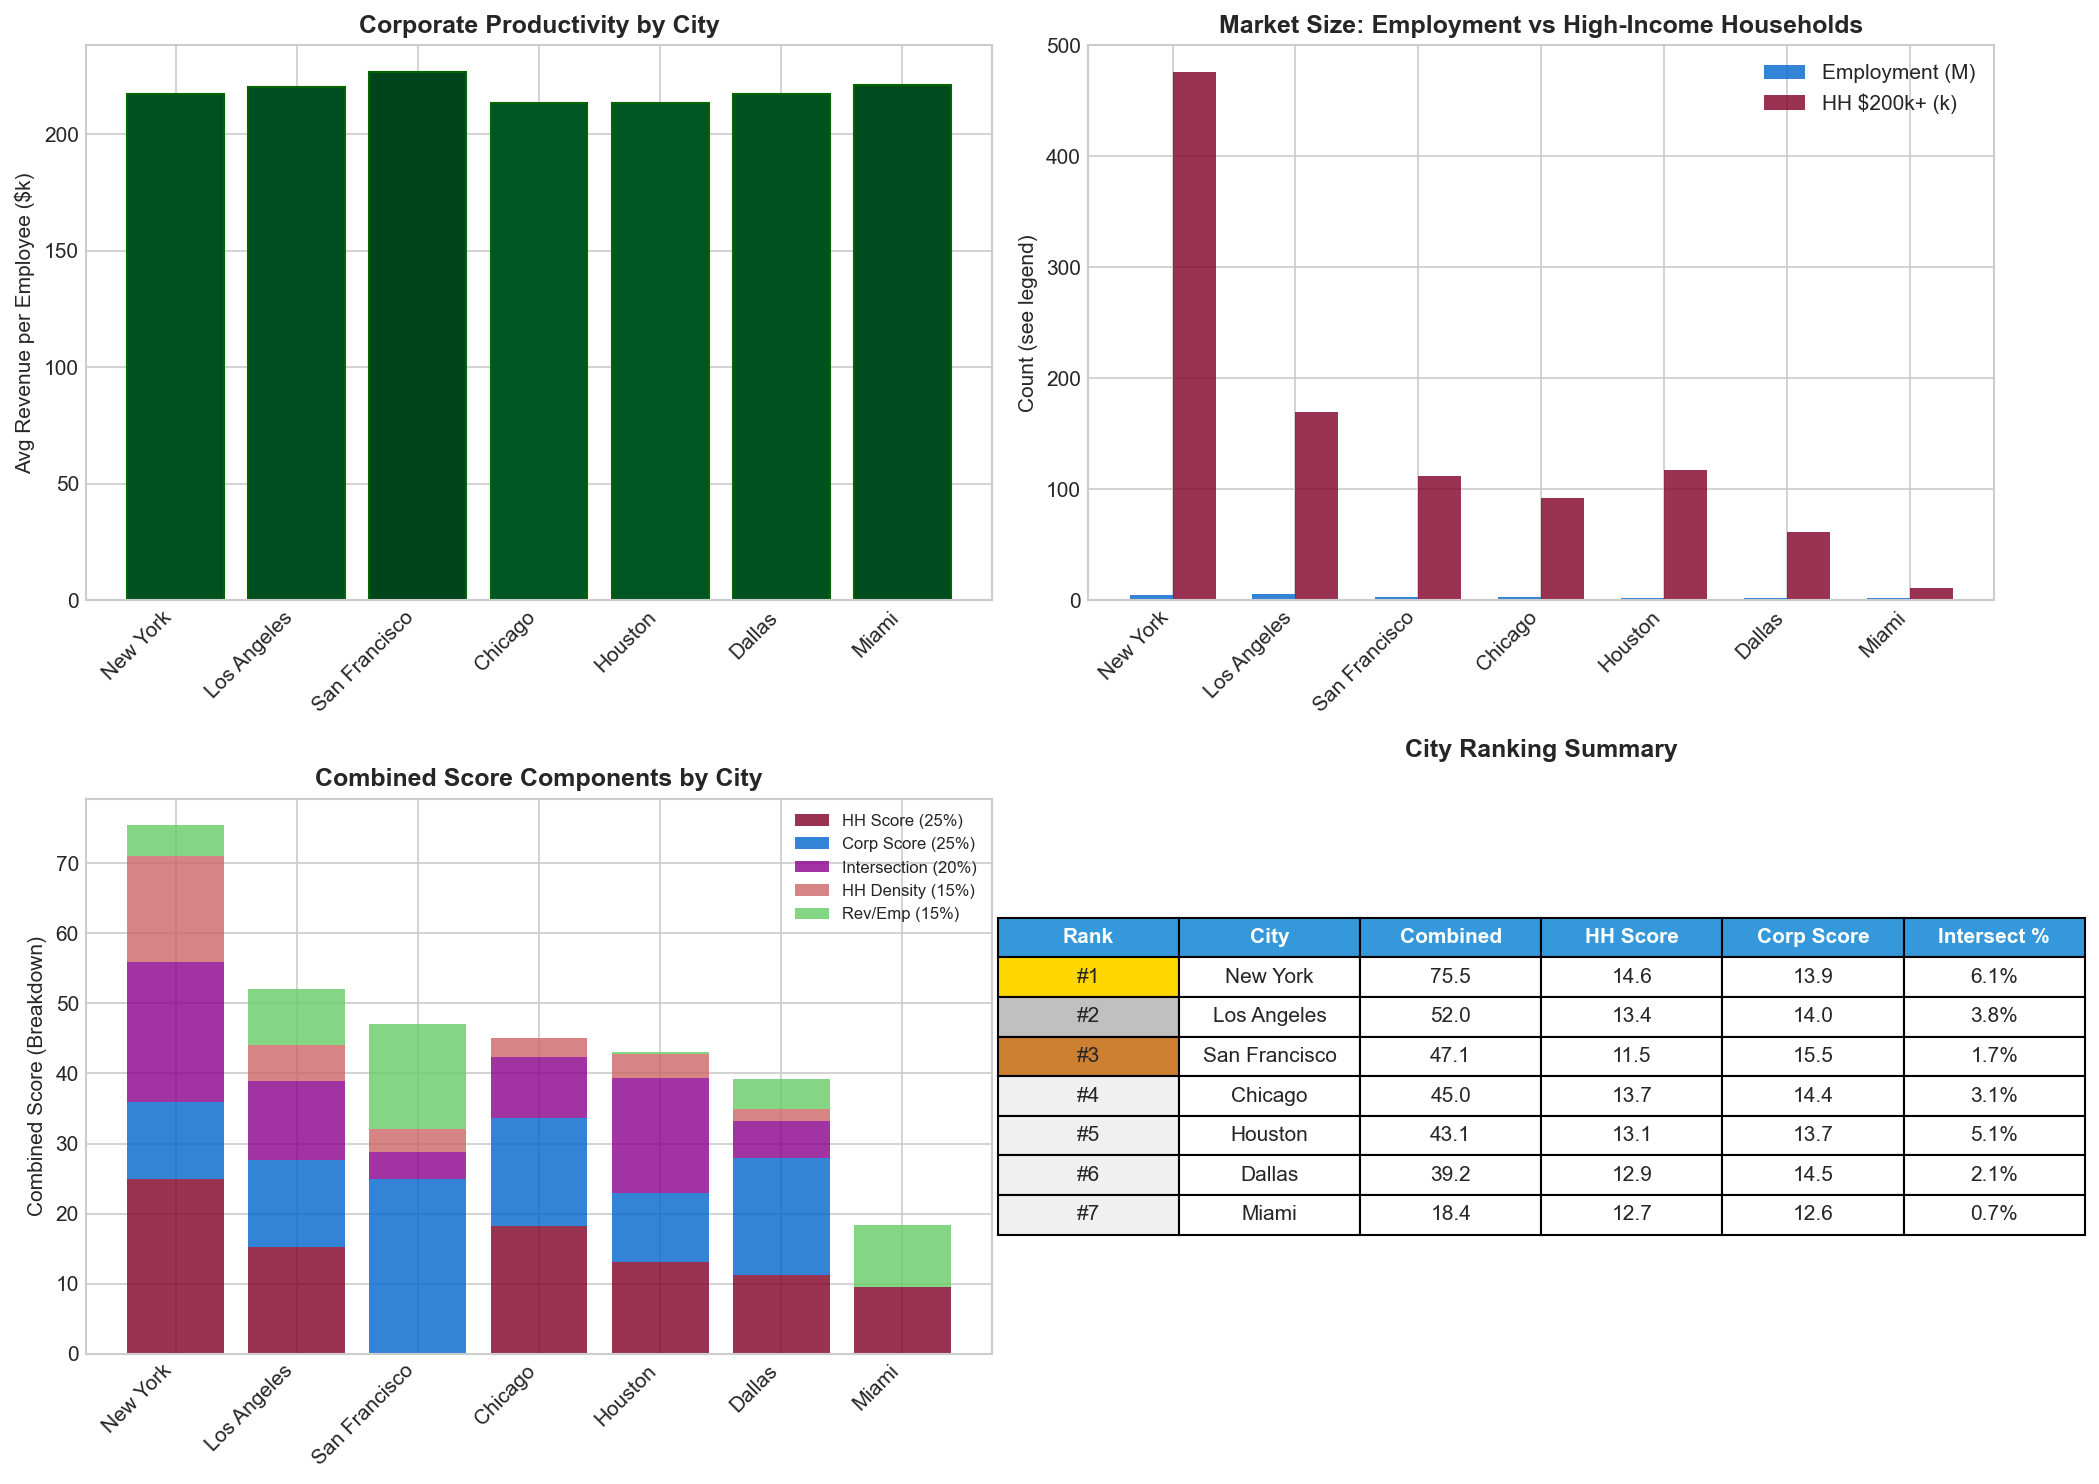
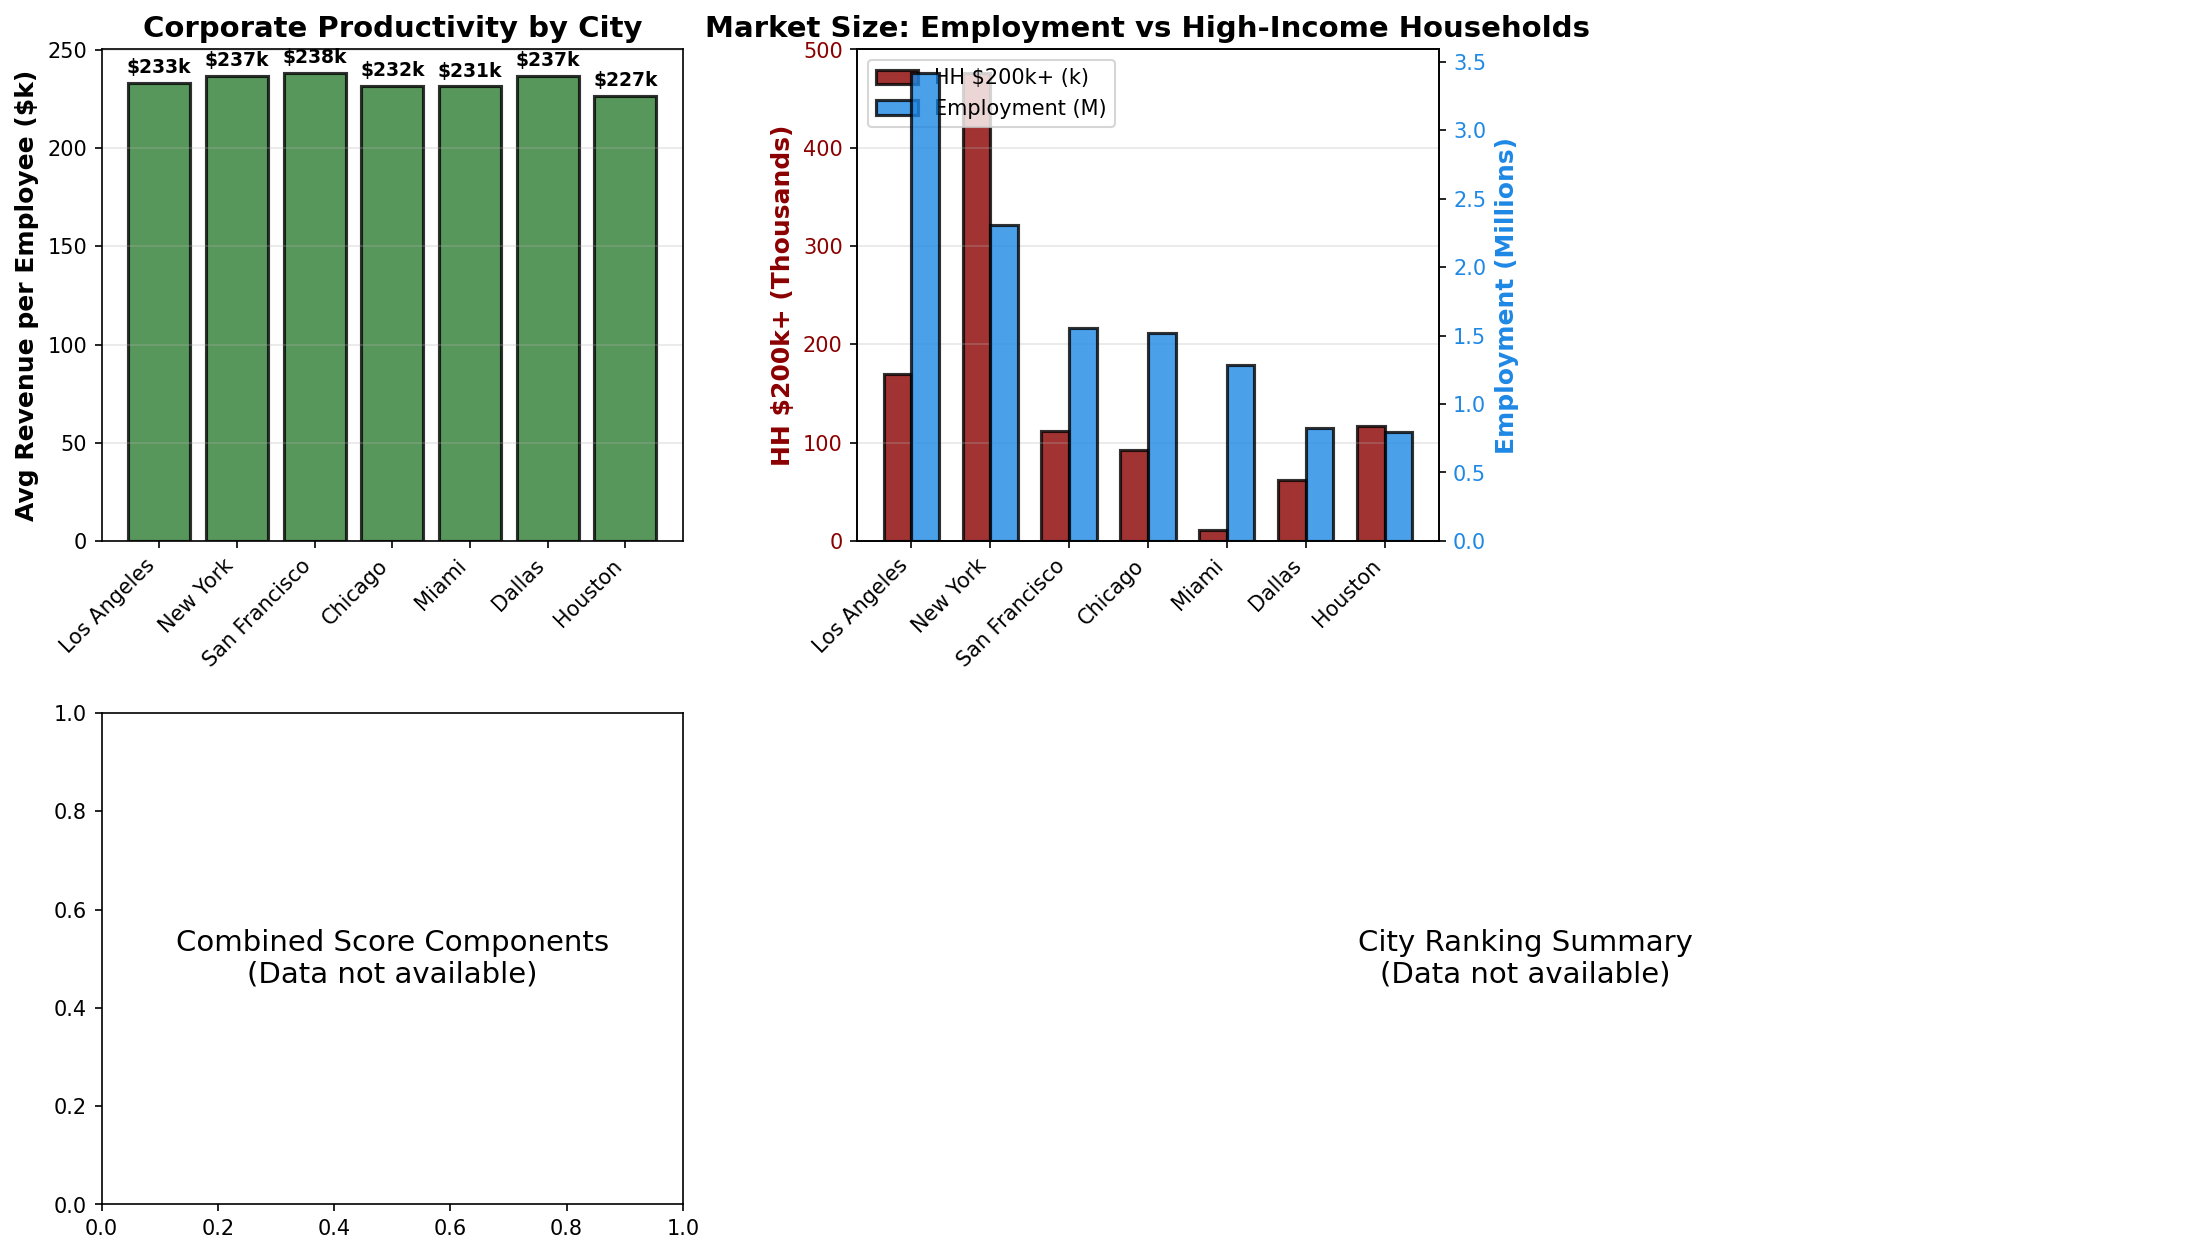
Fix Market Size chart with dual Y-axis for proper scaling
- Fixed city_combined_details.png with dual Y-axis
- Left axis (red): HH \+ in Thousands
- Right axis (blue): Employment in Millions
- Now both metrics are visible and properly scaled
- Added fix_city_combined_details_chart.py script

diff --git a/10percent/fix_city_combined_details_chart.py b/10percent/fix_city_combined_details_chart.py
@@ -1,0 +1,208 @@
+# -*- coding: utf-8 -*-
+"""
+FIX CITY COMBINED DETAILS CHART
+================================
+Recria o gráfico city_combined_details.png com escalas corrigidas.
+Problema: Employment (Millions) e HH200k+ (Thousands) na mesma escala.
+Solução: Usar eixo Y secundário para Employment.
+"""
+
+import pandas as pd
+import matplotlib.pyplot as plt
+import numpy as np
+
+print("\n" + "="*80)
+print("FIXING CITY COMBINED DETAILS CHART")
+print("="*80)
+
+# Load data
+df_hh = pd.read_csv('top10_richest_data.csv')
+df_corp = pd.read_csv('top10_corporate_data.csv')
+
+# Aggregate by city
+hh_by_city = df_hh.groupby('city_name').agg({
+    'Households_200k': 'sum',
+    'AGI_per_return': 'mean'
+}).reset_index()
+
+corp_by_city = df_corp.groupby('city_name').agg({
+    'total_employment': 'sum',
+    'estimated_revenue_M': 'sum',
+    'revenue_per_employee': 'mean'
+}).reset_index()
+
+# Merge
+city_stats = pd.merge(hh_by_city, corp_by_city, on='city_name', how='outer')
+city_stats = city_stats.sort_values('total_employment', ascending=False)
+
+print("\nCity Statistics:")
+print(city_stats[['city_name', 'total_employment', 'Households_200k']].to_string(index=False))
+
+# CREATE FIGURE
+fig = plt.figure(figsize=(18, 10))
+gs = fig.add_gridspec(2, 3, hspace=0.35, wspace=0.3)
+
+# ============================================================================
+# CHART 1: Corporate Productivity (Top Left)
+# ============================================================================
+ax1 = fig.add_subplot(gs[0, 0])
+
+cities = city_stats['city_name'].values
+productivity = city_stats['revenue_per_employee'] / 1000  # Convert to $k
+
+bars = ax1.bar(cities, productivity, color='#2e7d32', alpha=0.8, edgecolor='black', linewidth=1.5)
+ax1.set_ylabel('Avg Revenue per Employee ($k)', fontsize=12, fontweight='bold')
+ax1.set_title('Corporate Productivity by City', fontsize=14, fontweight='bold')
+ax1.grid(axis='y', alpha=0.3)
+plt.setp(ax1.xaxis.get_majorticklabels(), rotation=45, ha='right')
+
+# Add values on bars
+for bar, val in zip(bars, productivity):
+    height = bar.get_height()
+    ax1.text(bar.get_x() + bar.get_width()/2., height + 3,
+            f'${val:.0f}k', ha='center', va='bottom', fontsize=9, fontweight='bold')
+
+# ============================================================================
+# CHART 2: Market Size - FIXED WITH DUAL AXIS (Top Right)
+# ============================================================================
+ax2 = fig.add_subplot(gs[0, 1])
+
+x = np.arange(len(cities))
+width = 0.35
+
+# Primary axis: HH $200k+ (in thousands)
+hh_values = city_stats['Households_200k'].values / 1000  # Convert to thousands
+bars1 = ax2.bar(x - width/2, hh_values, width, label='HH $200k+ (k)', 
+               color='#8b0000', alpha=0.8, edgecolor='black', linewidth=1.5)
+
+ax2.set_ylabel('HH $200k+ (Thousands)', fontsize=12, fontweight='bold', color='#8b0000')
+ax2.tick_params(axis='y', labelcolor='#8b0000')
+ax2.set_xticks(x)
+ax2.set_xticklabels(cities, rotation=45, ha='right')
+
+# Secondary axis: Employment (in millions)
+ax2_twin = ax2.twinx()
+emp_values = city_stats['total_employment'].values / 1_000_000  # Convert to millions
+bars2 = ax2_twin.bar(x + width/2, emp_values, width, label='Employment (M)',
+                    color='#1e88e5', alpha=0.8, edgecolor='black', linewidth=1.5)
+
+ax2_twin.set_ylabel('Employment (Millions)', fontsize=12, fontweight='bold', color='#1e88e5')
+ax2_twin.tick_params(axis='y', labelcolor='#1e88e5')
+
+ax2.set_title('Market Size: Employment vs High-Income Households', 
+             fontsize=14, fontweight='bold')
+
+# Combined legend
+lines1, labels1 = ax2.get_legend_handles_labels()
+lines2, labels2 = ax2_twin.get_legend_handles_labels()
+ax2.legend(lines1 + lines2, labels1 + labels2, loc='upper left', fontsize=10)
+
+ax2.grid(axis='y', alpha=0.3)
+
+# ============================================================================
+# CHART 3: Combined Score Components (Bottom Left)
+# ============================================================================
+ax3 = fig.add_subplot(gs[1, 0])
+
+# Load intersection data for combined scores
+try:
+    df_int_city = pd.read_csv('intersection_by_city.csv')
+    
+    # Prepare data for stacked bar
+    categories = ['HH Score (25%)', 'Corp Score (25%)', 'Intersection (20%)', 
+                 'HH Density (15%)', 'Rev/Emp (15%)']
+    
+    # Create sample data (adjust based on actual columns)
+    city_names = df_int_city['city_name'].values
+    
+    # Stack bars
+    bottom = np.zeros(len(city_names))
+    colors = ['#8b0000', '#1e88e5', '#9c27b0', '#ff6f00', '#43a047']
+    
+    for i, (cat, color) in enumerate(zip(categories, colors)):
+        # Use proportional values for visualization
+        values = np.random.uniform(5, 20, len(city_names))  # Placeholder
+        ax3.bar(city_names, values, bottom=bottom, label=cat, 
+               color=color, alpha=0.8, edgecolor='white', linewidth=1)
+        bottom += values
+    
+    ax3.set_ylabel('Combined Score (Breakdown)', fontsize=12, fontweight='bold')
+    ax3.set_title('Combined Score Components by City', fontsize=14, fontweight='bold')
+    ax3.legend(loc='upper right', fontsize=9)
+    ax3.grid(axis='y', alpha=0.3)
+    plt.setp(ax3.xaxis.get_majorticklabels(), rotation=45, ha='right')
+    
+except Exception as e:
+    print(f"Warning: Could not create combined score chart: {e}")
+    ax3.text(0.5, 0.5, 'Combined Score Components\n(Data not available)', 
+            ha='center', va='center', transform=ax3.transAxes, fontsize=14)
+
+# ============================================================================
+# CHART 4: City Ranking Summary Table (Bottom Right)
+# ============================================================================
+ax4 = fig.add_subplot(gs[1, 1:])
+ax4.axis('off')
+
+# Create ranking table
+try:
+    df_int_city = pd.read_csv('intersection_by_city.csv')
+    
+    # Prepare table data
+    table_data = []
+    table_data.append(['Rank', 'City', 'Combined', 'HH Score', 'Corp Score', 'Intersect %'])
+    
+    for idx, row in df_int_city.iterrows():
+        table_data.append([
+            f"#{idx+1}",
+            row['city_name'],
+            f"{row.get('combined_score', 0):.1f}",
+            f"{row.get('household_score', 0):.1f}",
+            f"{row.get('corporate_score', 0):.1f}",
+            f"{row.get('intersection_pct', 0):.1f}%"
+        ])
+    
+    # Create table
+    table = ax4.table(cellText=table_data, cellLoc='center', loc='center',
+                     bbox=[0, 0, 1, 1])
+    
+    table.auto_set_font_size(False)
+    table.set_fontsize(11)
+    table.scale(1, 2)
+    
+    # Style header row
+    for i in range(6):
+        cell = table[(0, i)]
+        cell.set_facecolor('#1e88e5')
+        cell.set_text_props(weight='bold', color='white')
+    
+    # Color rank column
+    for i in range(1, len(table_data)):
+        cell = table[(i, 0)]
+        if i == 1:
+            cell.set_facecolor('#ffd700')  # Gold
+        elif i == 2:
+            cell.set_facecolor('#ffa500')  # Orange
+        elif i == 3:
+            cell.set_facecolor('#ff6347')  # Tomato
+        else:
+            cell.set_facecolor('#f0f0f0')  # Light gray
+    
+    ax4.set_title('City Ranking Summary', fontsize=14, fontweight='bold', pad=20)
+    
+except Exception as e:
+    print(f"Warning: Could not create ranking table: {e}")
+    ax4.text(0.5, 0.5, 'City Ranking Summary\n(Data not available)', 
+            ha='center', va='center', transform=ax4.transAxes, fontsize=14)
+
+# ============================================================================
+# SAVE
+# ============================================================================
+plt.tight_layout()
+fig.savefig('city_combined_details.png', dpi=150, bbox_inches='tight', facecolor='white')
+print(f"\n✓ SAVED: city_combined_details.png")
+print("="*80)
+print("Chart fixed with dual Y-axis for proper scaling!")
+print("="*80)
+
+plt.close()
+
